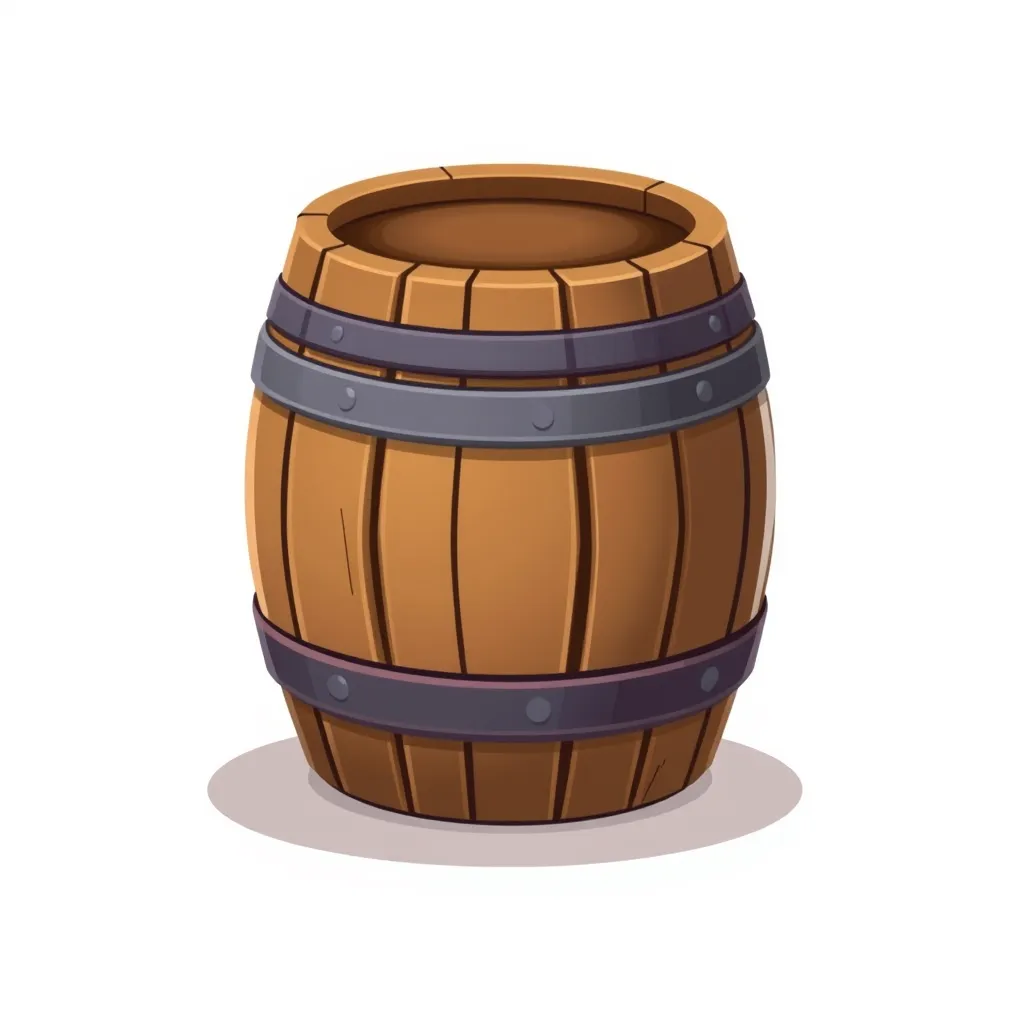
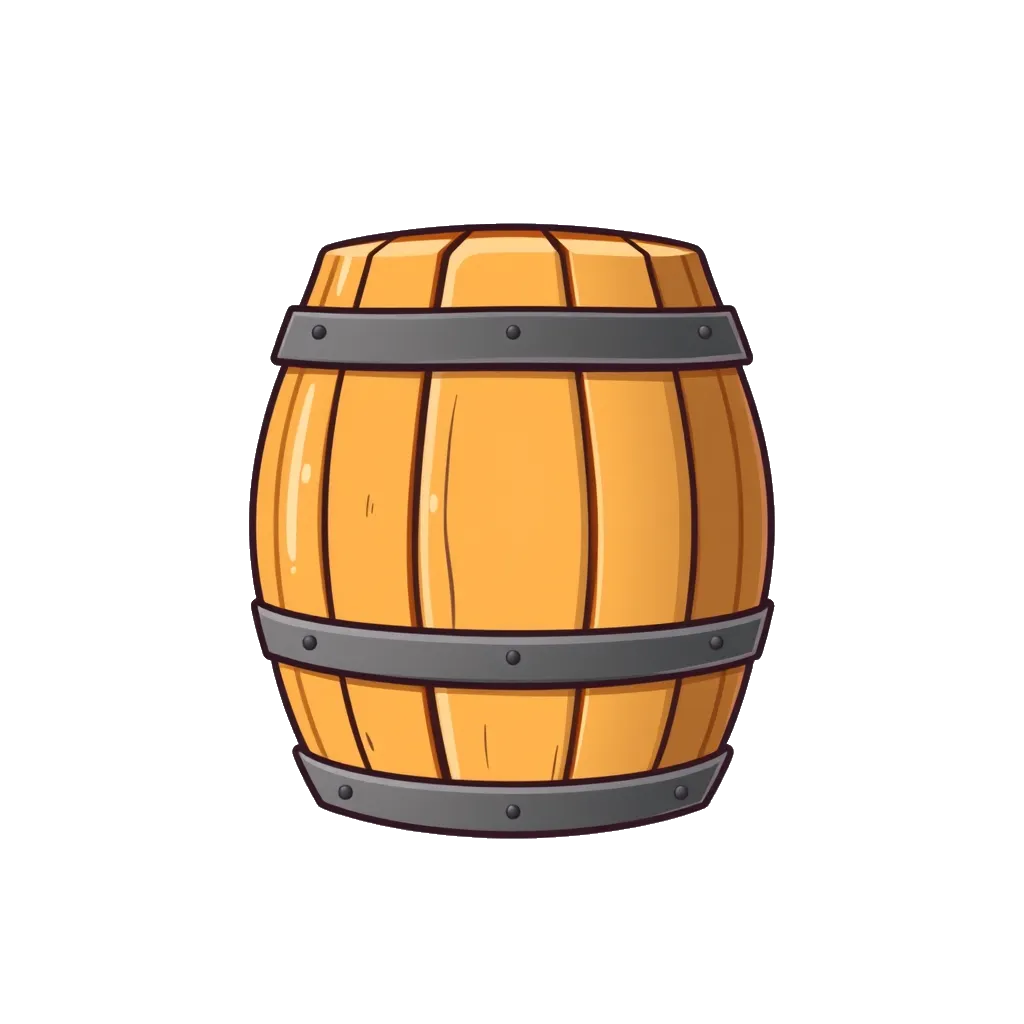
Generation: TRELLIS v1 and Stable Fast 3D routes, picture cut-outs, measured free limits
- hf_gen.py: --model trellis (default, MIT), trellis2 (MIT) or sf3d (Stability community licence), each driving its demo's page flow in one session; TRELLIS.2's export gets the session state it expects; the prop prompt asks for a straight-on, upright, shadowless view.
- prepare_concept.py: --cutout makes a picture's ground and soft shadow see-through (a single breadth-first fill, seconds instead of minutes) so the shadow does not become a disc under the model.
- ART_WORKFLOW: the free account's measured limit (about one TRELLIS model a day), Stable Fast 3D judged too lumpy for this style; the barrel picture replaced by the cleaner straight-on cut-out.

diff --git a/tools/art/hf_gen.py b/tools/art/hf_gen.py
@@ -33,8 +33,10 @@ ROOT = os.path.normpath(os.path.join(os.path.dirname(os.path.abspath(__file__)),
 OUT_ROOT = os.path.join(ROOT, "art", "generated")
 FLUX = "https://black-forest-labs-flux-1-schnell.hf.space"
 TRELLIS = "https://microsoft-trellis-2.hf.space"
+SF3D = "https://stabilityai-stable-fast-3d.hf.space"
+TRELLIS1 = "https://trellis-community-trellis.hf.space"
 PROP_STYLE = ("{}, a single object, chunky stylized cartoon game asset, rounded simple shapes, bold flat colours, soft cel shading, "
-              "no text, no shadow on the ground, plain white background, three-quarter view from slightly above, centered, full object in frame")
+              "no text, no shadow, plain white background, straight-on front view at eye level, upright, centered, full object in frame")
 
 
 def _token():
@@ -96,7 +98,9 @@ def _download(url, path):
 
 
 def _file_url(root, value):
-    """The download link of a Gradio file value."""
+    """The download link of a Gradio file value (or of the value inside a component update)."""
+    if isinstance(value, dict) and isinstance(value.get("value"), (dict, str)):
+        value = value["value"]
     if isinstance(value, dict):
         if value.get("url"):
             return value["url"]
@@ -107,14 +111,14 @@ def _file_url(root, value):
     raise SystemExit("no file in the reply: %s" % json.dumps(value)[:300])
 
 
-def _upload(root, path):
+def _upload(root, path, prefix="/gradio_api"):
     boundary = uuid.uuid4().hex
     with open(path, "rb") as f:
         content = f.read()
     mime = mimetypes.guess_type(path)[0] or "image/png"
     body = (("--%s\r\nContent-Disposition: form-data; name=\"files\"; filename=\"%s\"\r\nContent-Type: %s\r\n\r\n"
              % (boundary, os.path.basename(path), mime)).encode() + content + ("\r\n--%s--\r\n" % boundary).encode())
-    req = urllib.request.Request(root + "/gradio_api/upload", data=body, method="POST",
+    req = urllib.request.Request(root + prefix + "/upload", data=body, method="POST",
                                  headers=_headers({"Content-Type": "multipart/form-data; boundary=" + boundary}))
     with urllib.request.urlopen(req, timeout=120) as r:
         paths = json.loads(r.read().decode())
@@ -147,10 +151,10 @@ def text_image(prompt, name, seed=None):
 
 # ---- TRELLIS.2: a model from a picture -------------------------------------------------------------------------------------------------
 
-def _queue(root, session, fn_index, data, label):
-    _post_json(root + "/gradio_api/queue/join", {"data": data, "event_data": None, "fn_index": fn_index, "trigger_id": None,
-                                                 "session_hash": session})
-    for _, payload in _events("%s/gradio_api/queue/data?session_hash=%s" % (root, session)):
+def _queue(root, session, fn_index, data, label, prefix="/gradio_api"):
+    _post_json(root + prefix + "/queue/join", {"data": data, "event_data": None, "fn_index": fn_index, "trigger_id": None,
+                                               "session_hash": session})
+    for _, payload in _events("%s%s/queue/data?session_hash=%s" % (root, prefix, session)):
         msg = json.loads(payload)
         kind = msg.get("msg")
         if kind == "estimation" and msg.get("rank") is not None:
@@ -185,7 +189,8 @@ def image_3d(image, name, resolution="1024", tris=200000, texture=1024):
     # The defaults of the demo's page for everything but the resolution.
     params = [cleaned, 0, resolution, 7.5, 0.7, 12, 5.0, 7.5, 0.5, 12, 3.0, 1.0, 0.0, 12, 3.0]
     _queue(TRELLIS, session, _fn_index(config, "image_to_3d"), params, "generate")
-    exported = _queue(TRELLIS, session, _fn_index(config, "extract_glb"), [tris, texture], "export")
+    # (Its first input is the session's stored result: sent as nothing, the server fills it in.)
+    exported = _queue(TRELLIS, session, _fn_index(config, "extract_glb"), [None, tris, texture], "export")
     path = os.path.join(_out(name), "raw.glb")
     _download(_file_url(TRELLIS, exported[-1]), path)
     with open(os.path.join(_out(name), "source.json"), "w") as f:
@@ -193,6 +198,57 @@ def image_3d(image, name, resolution="1024", tris=200000, texture=1024):
                    "resolution": resolution}, f, indent=2)
     print("model: saved %s (%d KB)" % (path, os.path.getsize(path) // 1024))
     print("next: blender --background --python art/blender/import_generated.py -- --in %s --name %s --kind prop" % (path, name))
+    return path
+
+
+# ---- TRELLIS (the first version): a textured model from a picture, on a smaller GPU -----------------------------------------------------
+
+def image_3d_trellis1(image, name, texture=1024):
+    """Microsoft TRELLIS, the first version (MIT): textured models nearly as good as TRELLIS.2's for simple props, on a smaller GPU, so
+    it fits the free GPU time far more often. One step generates and exports."""
+    req = urllib.request.Request(TRELLIS1 + "/config", headers=_headers())
+    with urllib.request.urlopen(req, timeout=60) as r:
+        config = json.loads(r.read().decode())
+    session = "".join(random.choice(string.ascii_lowercase + string.digits) for _ in range(11))
+    _queue(TRELLIS1, session, _fn_index(config, "start_session"), [], "session")
+    picture = _upload(TRELLIS1, image)
+    cleaned = _queue(TRELLIS1, session, _fn_index(config, "preprocess_image"), [picture], "clean the picture")[0]
+    # Picture, no extra views, the page's own state, seed, then its default sampling settings, simplify 0.95, the texture size.
+    made = _queue(TRELLIS1, session, _fn_index(config, "generate_and_extract_glb"),
+                  [cleaned, [], None, 0, 7.5, 12, 3.0, 12, "stochastic", 0.95, texture], "generate")
+    path = os.path.join(_out(name), "raw.glb")
+    _download(_file_url(TRELLIS1, made[-1] if made[-1] else made[-2]), path)
+    with open(os.path.join(_out(name), "source.json"), "w") as f:
+        json.dump({"model": "microsoft/TRELLIS (MIT)", "picture": os.path.relpath(image, ROOT).replace("\\", "/")}, f, indent=2)
+    print("model: saved %s (%d KB)" % (path, os.path.getsize(path) // 1024))
+    return path
+
+
+# ---- Stable Fast 3D: a model from a picture in seconds ----------------------------------------------------------------------------------
+
+def image_3d_sf3d(image, name, texture=1024):
+    """Stable Fast 3D (Stability AI Community License: free under $1M a year in revenue, commercial use needs a free registration; the
+    outputs are ours). It runs in seconds, so it costs little of the free GPU time. Its page works in two clicks that keep state in the
+    session: the background is taken off the picture, then the model is made from it."""
+    prefix = ""   # (an older Gradio: no /gradio_api prefix)
+    req = urllib.request.Request(SF3D + "/config", headers=_headers())
+    with urllib.request.urlopen(req, timeout=60) as r:
+        config = json.loads(r.read().decode())
+    session = "".join(random.choice(string.ascii_lowercase + string.digits) for _ in range(11))
+    picture = _upload(SF3D, image, prefix)
+    ratio = 0.85
+    state = _queue(SF3D, session, _fn_index(config, "requires_bg_remove"), [picture, ratio], "check the picture", prefix)
+    button = state[0].get("value") if isinstance(state[0], dict) else state[0]
+    if button == "Remove Background":
+        _queue(SF3D, session, _fn_index(config, "run_button"), ["Remove Background", picture, None, ratio, "None", -1, texture],
+               "remove the background", prefix)
+    made = _queue(SF3D, session, _fn_index(config, "run_button"), ["Run", picture, None, ratio, "None", -1, texture], "generate", prefix)
+    path = os.path.join(_out(name), "raw.glb")
+    _download(_file_url(SF3D, made[4]), path)
+    with open(os.path.join(_out(name), "source.json"), "w") as f:
+        json.dump({"model": "stabilityai/stable-fast-3d (Stability AI Community License)",
+                   "picture": os.path.relpath(image, ROOT).replace("\\", "/")}, f, indent=2)
+    print("model: saved %s (%d KB)" % (path, os.path.getsize(path) // 1024))
     return path
 
 
@@ -208,20 +264,32 @@ def main(argv):
     s.add_argument("image")
     s.add_argument("--name", required=True)
     s.add_argument("--resolution", default="1024", choices=["512", "1024", "1536"])
+    s.add_argument("--model", default="trellis", choices=["trellis", "trellis2", "sf3d"],
+                   help="trellis (MIT, good, fits the free GPU time), trellis2 (MIT, best, needs about twice a free day's GPU time) or "
+                        "sf3d (Stability community licence, seconds, weaker)")
     s = sub.add_parser("prop")
     s.add_argument("prompt")
     s.add_argument("--name", required=True)
     s.add_argument("--raw", action="store_true")
     s.add_argument("--seed", type=int)
     s.add_argument("--resolution", default="1024", choices=["512", "1024", "1536"])
+    s.add_argument("--model", default="trellis", choices=["trellis", "trellis2", "sf3d"])
     args = p.parse_args(argv)
     if args.command in ("text-image", "prop"):
         prompt = args.prompt if args.raw else PROP_STYLE.format(args.prompt)
         picture = text_image(prompt, args.name, args.seed)
         if args.command == "prop":
-            image_3d(picture, args.name, args.resolution)
+            make_model(args.model, picture, args.name, args.resolution)
     else:
-        image_3d(os.path.abspath(args.image), args.name, args.resolution)
+        make_model(args.model, os.path.abspath(args.image), args.name, args.resolution)
+
+
+def make_model(model, picture, name, resolution):
+    if model == "sf3d":
+        return image_3d_sf3d(picture, name)
+    if model == "trellis2":
+        return image_3d(picture, name, resolution)
+    return image_3d_trellis1(picture, name)
 
 
 if __name__ == "__main__":

diff --git a/art/blender/prepare_concept.py b/art/blender/prepare_concept.py
@@ -8,11 +8,15 @@ sheet's pixels (from its top-left). Each view is cropped, put on a clean white s
 turned white: anything nearly colourless), and saved beside the sheet as <sheet>_<view>.png. With `blank_face`, the face inside that
 circle is painted over in the skin colour (the colour most common there), for a head that will carry the game's own 2D face drawings
 (godot/art/faces); `<view>_blank` is then written as well.
+
+For a single generated picture (a prop on a light ground), `-- --in picture.png --cutout out.png` makes the ground and any soft shadow on
+it see-through instead, so image-to-3D does not turn the shadow into a disc under the model.
 """
 
 import json
 import os
 import sys
+from collections import deque
 
 import bpy
 import numpy as np
@@ -52,17 +56,21 @@ def saturation(rgb):
 
 
 def _grow(region, passable):
-    """Floods `region` through `passable` pixels (4-neighbours) until it stops growing."""
-    while True:
-        bigger = region.copy()
-        bigger[1:, :] |= region[:-1, :]
-        bigger[:-1, :] |= region[1:, :]
-        bigger[:, 1:] |= region[:, :-1]
-        bigger[:, :-1] |= region[:, 1:]
-        bigger &= passable
-        if (bigger == region).all():
-            return region
-        region = bigger
+    """Floods `region` through `passable` pixels (4-neighbours): one breadth-first pass over the picture."""
+    h, w = region.shape
+    open_ = bytearray(passable.astype(np.uint8).ravel().tobytes())
+    done = bytearray(h * w)
+    queue = deque(int(i) for i in np.flatnonzero(region & passable))
+    for i in queue:
+        done[i] = 1
+    while queue:
+        i = queue.popleft()
+        y, x = divmod(i, w)
+        for j in ((i - w) if y > 0 else -1, (i + w) if y < h - 1 else -1, (i - 1) if x > 0 else -1, (i + 1) if x < w - 1 else -1):
+            if j >= 0 and open_[j] and not done[j]:
+                done[j] = 1
+                queue.append(j)
+    return np.frombuffer(bytes(done), dtype=np.uint8).reshape(h, w).astype(bool)
 
 
 def clean(view):
@@ -128,8 +136,36 @@ def square(view, margin=0.08):
     return out
 
 
+def cutout(view):
+    """A single picture on a light ground (a generated prop picture): the ground and any soft shadow on it (light and nearly colourless)
+    that can be reached from the edge become see-through, everything else is kept. Returns RGBA."""
+    sat = saturation(view)
+    value = view.max(axis=2)
+    ground = (value > 0.72) & (sat < 0.18)
+    border = np.zeros_like(ground)
+    border[0, :] = border[-1, :] = True
+    border[:, 0] = border[:, -1] = True
+    outside = _grow(border & ground, ground)
+    alpha = (~outside).astype(np.float32)
+    return np.concatenate([view, alpha[:, :, None]], axis=2)
+
+
+def save_rgba(rgba, path):
+    h, w = rgba.shape[0], rgba.shape[1]
+    img = bpy.data.images.new(os.path.basename(path), w, h, alpha=True)
+    img.pixels.foreach_set(rgba[::-1].astype(np.float32).ravel())
+    img.filepath_raw = path
+    img.file_format = "PNG"
+    img.save()
+
+
 def main():
     a = args()
+    if "cutout" in a:
+        # One picture: its ground and shadow made see-through (for image-to-3D without a shadow disc under the model).
+        save_rgba(cutout(load(a["in"])), os.path.abspath(a["cutout"]))
+        print("CUTOUT -> %s" % a["cutout"])
+        return
     sheet = load(a["in"])
     with open(a["views"]) as f:
         views = json.load(f)

diff --git a/docs/ART_WORKFLOW.md b/docs/ART_WORKFLOW.md
@@ -63,17 +63,22 @@ game draws faces itself). Example: the base body sheet gives `art/concept/base_b
 
 ## 3. Generate a model
 
-**Free**: `tools/art/hf_gen.py` uses public Hugging Face demos of open models whose licences allow commercial use: **FLUX.1-schnell**
-(Apache-2.0) for a picture from a prompt (wrapped in the prop style wording) and Microsoft **TRELLIS.2** (MIT) for a textured model from a
-picture. No account is needed, but the demos share free GPU time (ZeroGPU): anonymously there is only a few minutes a day (one picture
-and no model, as measured), and a TRELLIS.2 model asks for 120 seconds; a free Hugging Face account's read token (`setx HF_TOKEN
-"<token>"`) gives more. Pictures and their prompts are kept in `art/concept/` (props in `art/concept/props/`) as the record of where each
-model came from.
+**Free**: `tools/art/hf_gen.py` uses public Hugging Face demos of open models: **FLUX.1-schnell** (Apache-2.0) for a picture from a
+prompt (wrapped in the prop style wording: straight-on, eye level, upright, no shadow), and for the model **TRELLIS** (`--model trellis`,
+the default) or **TRELLIS.2** (`--model trellis2`), both Microsoft's and MIT-licensed, or **Stable Fast 3D** (`--model sf3d`, Stability AI
+Community Licence: free under $1M a year in revenue, commercial use after a free registration). Log in once with `hf auth login` (a free
+account's read token). Measured limits (October 2026): the demos share each account's free GPU time (ZeroGPU, a few minutes a day), and
+TRELLIS and TRELLIS.2 each ask for 120 seconds, which is only granted with plenty left, so a free account makes about **one model a day**
+(Hugging Face PRO gives 25 minutes a day, about a dozen). Stable Fast 3D fits easily but its models are lumpy blobs that lose the details;
+it is not good enough for this style. Before generating, cut the picture out of its ground and shadow
+(`art/blender/prepare_concept.py -- --in picture.png --cutout out.png`), or the shadow becomes a disc under the model. Pictures are kept in
+`art/concept/` (props in `art/concept/props/`) as the record of where each model came from.
 
 ```bash
-python tools/art/hf_gen.py prop "a wooden barrel with iron bands" --name barrel
+python tools/art/hf_gen.py text-image "a wooden barrel with iron bands" --name barrel
+"C:/Program Files/Blender Foundation/Blender 5.2/blender.exe" --background --python art/blender/prepare_concept.py -- --in art/generated/barrel/concept.png --cutout art/concept/props/barrel.png
 python tools/art/hf_gen.py image-3d art/concept/props/barrel.png --name barrel
-python tools/art/hf_gen.py image-3d art/concept/base_body_turnaround_front_blank.png --name base_body
+python tools/art/hf_gen.py image-3d art/concept/base_body_turnaround_front_blank.png --name base_body --model trellis2
 ```
 
 **Paid**: `tools/art/gen3d.py` sends a concept picture (or a text prompt) to **Meshy** or **Tripo** and downloads the raw model to
